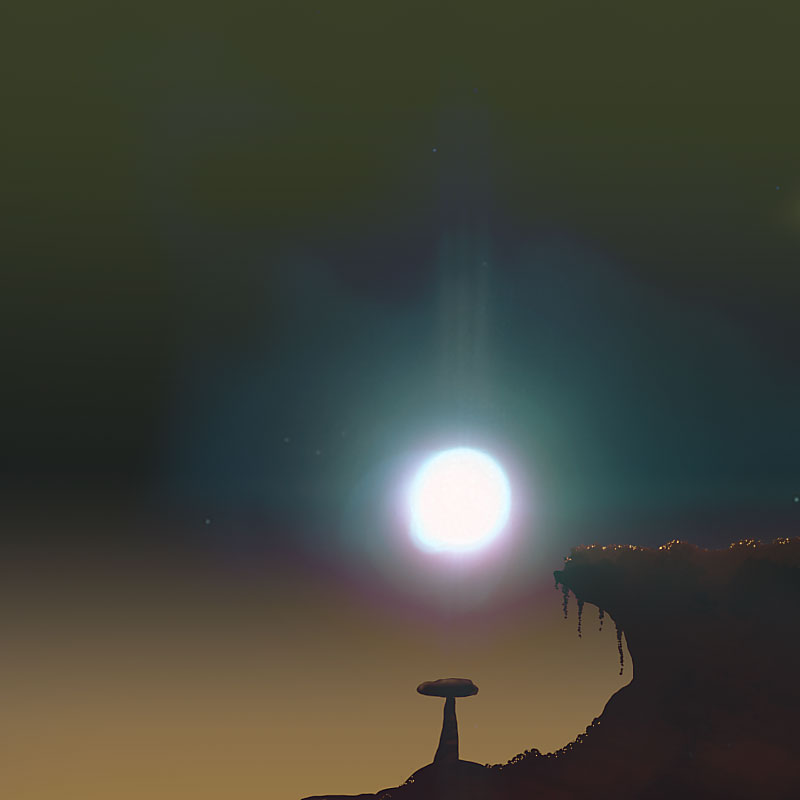
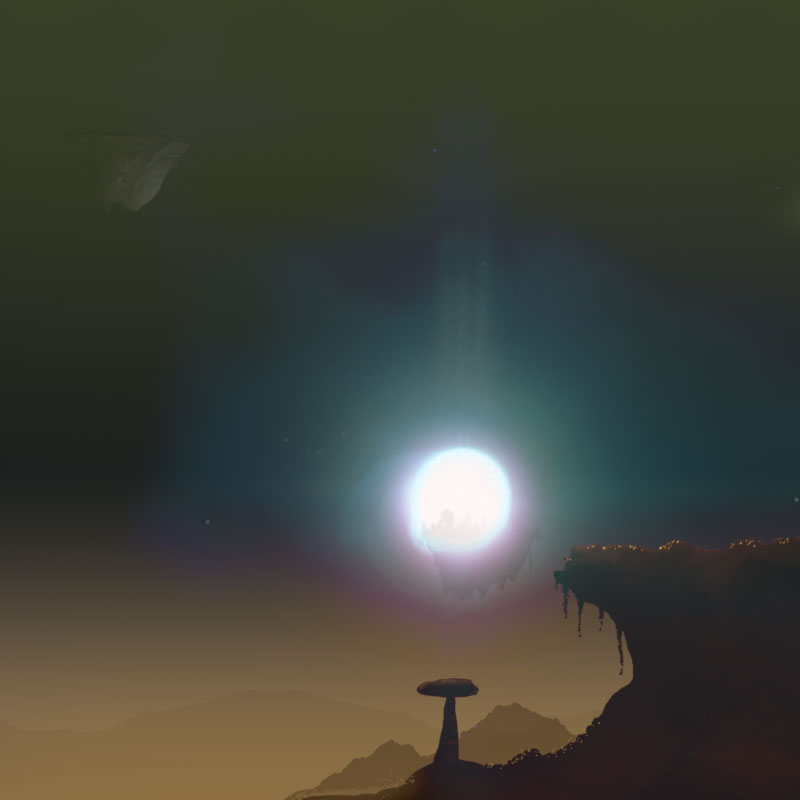
Wip Clockwork

Changed region(s): [[0.3438, 0.875, 0.7188, 1.0]]

diff --git a/Clinfinity.c4f/ARENA_ClockworkHeart.c4s/Script.c b/Clinfinity.c4f/ARENA_ClockworkHeart.c4s/Script.c
@@ -3,7 +3,10 @@
 
 protected func Initialize() {
   //heart
-  CreateObject(HART,270,710, NO_OWNER);
+  CreateObject(HART, 270, 710, NO_OWNER);
+  
+  //Foreground
+  CreateObject(GRD1, 400, 805, NO_OWNER);
   
   CreateObject(FOG_,400,850);
 

diff --git a/Clinfinity.c4f/ARENA_ClockworkHeart.c4s/Foreground.c4d/Script.c b/Clinfinity.c4f/ARENA_ClockworkHeart.c4s/Foreground.c4d/Script.c
@@ -1,0 +1,8 @@
+/*-- Foreground --*/
+
+#strict 2
+
+func Initialize() {
+	Local(0) = 12;
+	Local(1) = 12;
+	}
